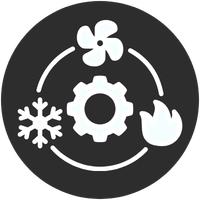
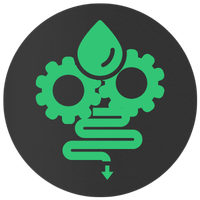
chore:Added initial commits

diff --git a/components/site-footer.tsx b/components/site-footer.tsx
@@ -1,3 +1,4 @@
+import Image from "next/image";
 import Link from "next/link";
 import { BLOG_POSTS, PHONE_DISPLAY, PHONE_HREF, SITE_NAME, STATIC_PAGES } from "@/lib/site-data";
 
@@ -6,7 +7,16 @@ export function SiteFooter() {
     <footer className="site-footer">
       <div className="shell footer-grid">
         <div>
-          <p className="footer-title">{SITE_NAME}</p>
+          <div className="footer-brand">
+            <Image
+              src="/flushthegrease-logo.png"
+              alt={`${SITE_NAME} logo`}
+              width={56}
+              height={56}
+              className="footer-logo"
+            />
+            <p className="footer-title">{SITE_NAME}</p>
+          </div>
           <p className="footer-copy">
             Licensed grease trap cleaning and maintenance for restaurants, hotel kitchens, food courts, and commercial
             kitchens across Canada.

diff --git a/app/globals.css b/app/globals.css
@@ -90,17 +90,12 @@ a {
   color: #fff8ef;
 }
 
-.brand-badge {
-  display: grid;
-  place-items: center;
-  width: 2.6rem;
-  height: 2.6rem;
-  border-radius: 0.85rem;
-  background: linear-gradient(145deg, var(--accent), var(--brand));
-  color: var(--charcoal);
-  font-family: var(--font-display), sans-serif;
-  font-size: 1.15rem;
-  letter-spacing: 0.06em;
+.brand-logo {
+  width: 2.8rem;
+  height: 2.8rem;
+  object-fit: contain;
+  display: block;
+  filter: drop-shadow(0 0 12px rgba(71, 227, 147, 0.18));
 }
 
 .brand-mark strong,
@@ -403,6 +398,20 @@ a {
   padding: 4rem 0;
   background: var(--charcoal);
   color: #f8edde;
+}
+
+.footer-brand {
+  display: flex;
+  align-items: center;
+  gap: 0.9rem;
+  margin-bottom: 0.85rem;
+}
+
+.footer-logo {
+  width: 3.2rem;
+  height: 3.2rem;
+  object-fit: contain;
+  display: block;
 }
 
 .footer-copy,

diff --git a/components/site-navbar.tsx b/components/site-navbar.tsx
@@ -1,5 +1,6 @@
 "use client";
 
+import Image from "next/image";
 import Link from "next/link";
 import { useEffect, useState } from "react";
 import { PHONE_DISPLAY, PHONE_HREF, SITE_NAME } from "@/lib/site-data";
@@ -28,7 +29,14 @@ export function SiteNavbar() {
       <header className="site-header">
         <div className="shell nav-shell">
           <Link href="/" className="brand-mark" onClick={() => setOpen(false)}>
-            <span className="brand-badge">FTG</span>
+            <Image
+              src="/flushthegrease-logo.png"
+              alt={`${SITE_NAME} logo`}
+              width={48}
+              height={48}
+              className="brand-logo"
+              priority
+            />
             <span>
               <strong>{SITE_NAME}</strong>
               <small>Grease Trap Cleaning Canada</small>
